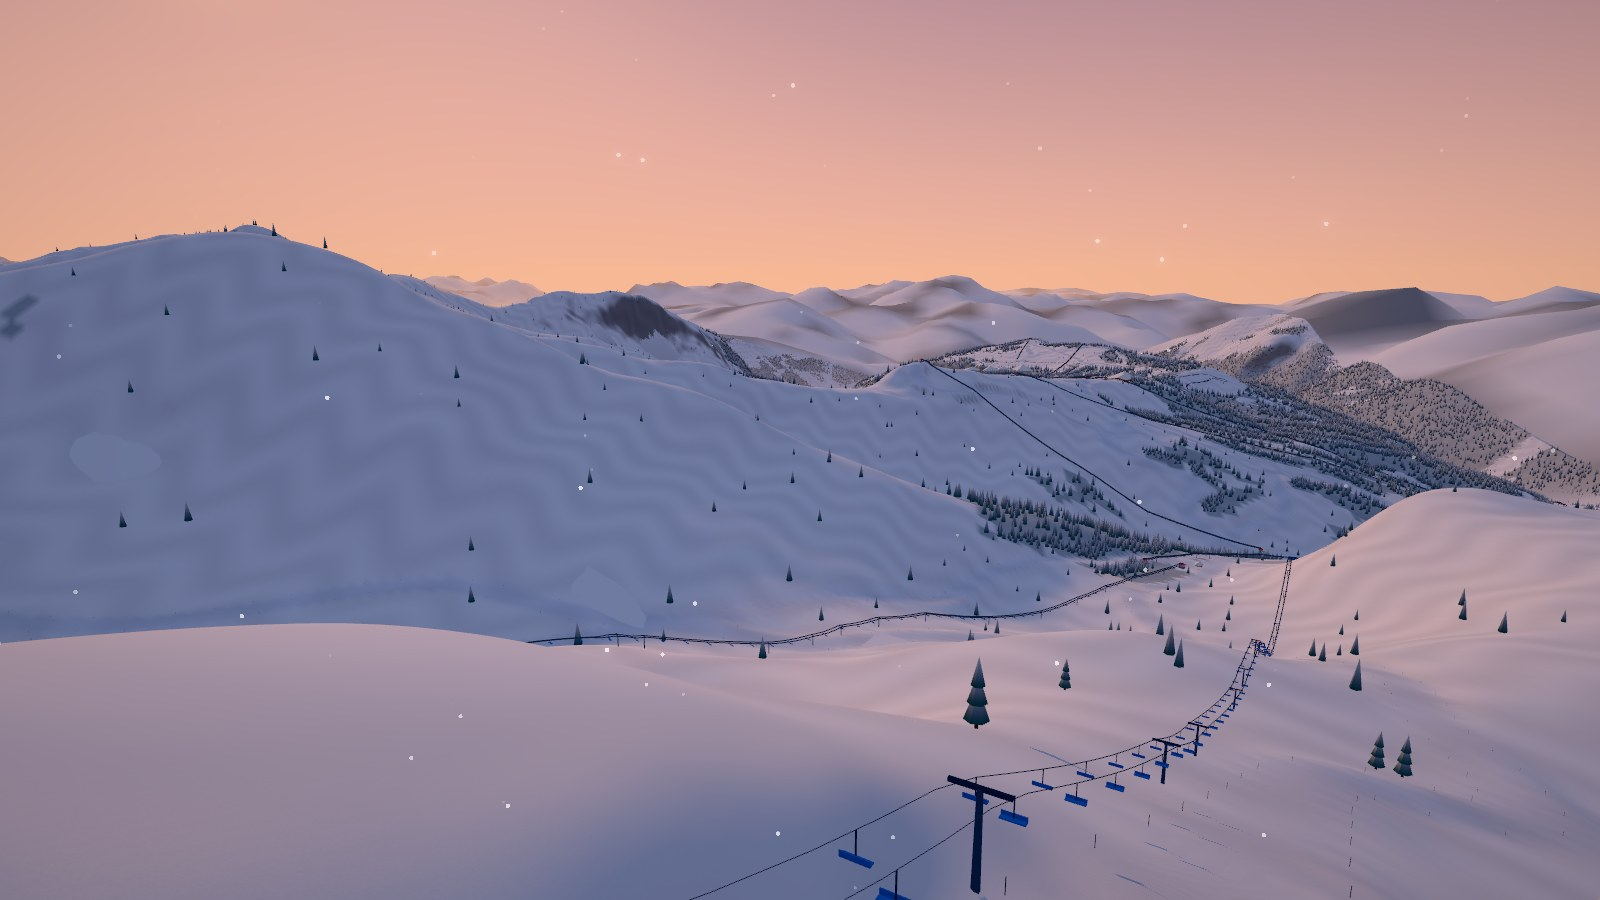
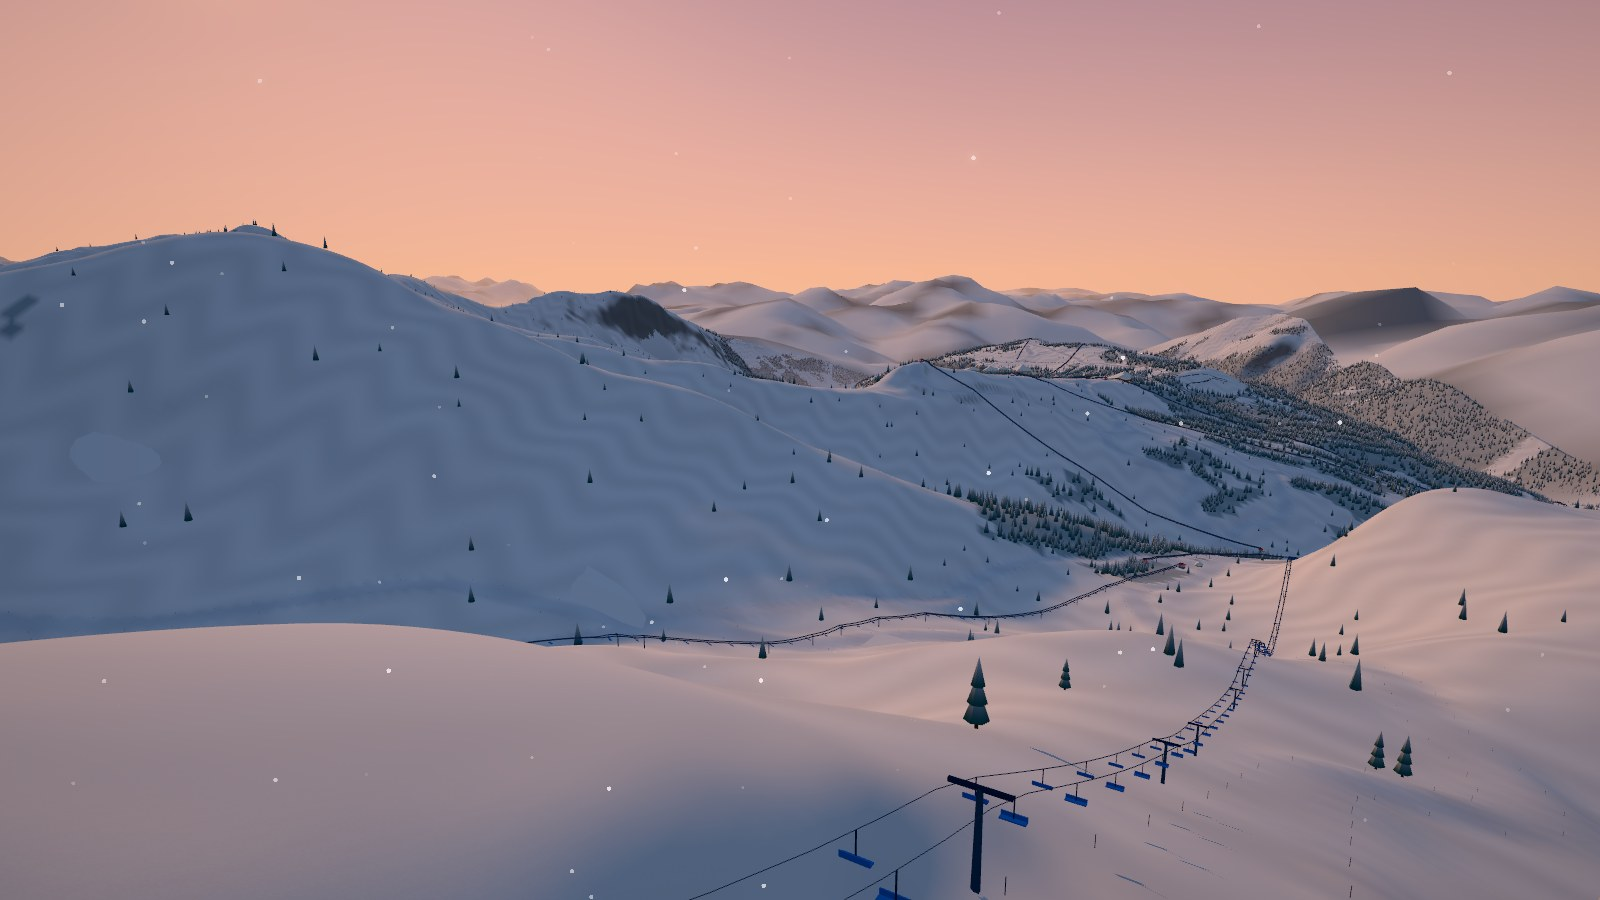
fix(lumière): neige moins lavande, plus de contraste au soleil bas, velours lu de près seulement
Suite de la critique indépendante (6,5/10) :
- hémisphère : ciel bleu-cyan et sol gris chaud au lieu de lavande et
  violet (ombre mesurée [79, 95, 120] sur la piste) ;
- free ride : lumière du ciel x0,8, soleil x1,15 ;
- passes du velours effacées entre 25 et 90 m, amplitude 2 %.
Captures apres-lumiere refaites. 127 tests verts, aucun triangle ajouté.

Changed region(s): [[0.75, 0.4044, 0.7812, 0.4356]]

diff --git a/src/render/sky.ts b/src/render/sky.ts
@@ -11,11 +11,11 @@ interface Mood {
 
 /** Time-of-day keyframes (morning → noon → golden hour → dusk). Fog = horizon colour. */
 const MOODS: Mood[] = [
-  { t: 0.15, top: 0x58709f, horizon: 0xe9b8a6, sun: 0xffc59a, sunI: 1.1, sky: 0xbfc9ec, ground: 0x7c7f9f, hemiI: 1.05, elev: 5 },
-  { t: 0.3, top: 0x5f93d3, horizon: 0xf3d8c6, sun: 0xffdcb4, sunI: 1.55, sky: 0xd3e2ff, ground: 0x8b91b0, hemiI: 1.25, elev: 16 },
-  { t: 0.52, top: 0x3d7ed0, horizon: 0xcfe4f6, sun: 0xfff3e2, sunI: 1.85, sky: 0xe4f0ff, ground: 0x8e9cb5, hemiI: 1.35, elev: 52 },
-  { t: 0.8, top: 0x45559d, horizon: 0xffb27f, sun: 0xffad6b, sunI: 1.6, sky: 0xbcc4ef, ground: 0x80708e, hemiI: 1.1, elev: 9 },
-  { t: 0.95, top: 0x2e3566, horizon: 0xd98c88, sun: 0xff8f6b, sunI: 0.9, sky: 0x8f97c9, ground: 0x5d5672, hemiI: 0.9, elev: 2 },
+  { t: 0.15, top: 0x58709f, horizon: 0xe9b8a6, sun: 0xffc59a, sunI: 1.1, sky: 0xbcd0ee, ground: 0x8a8c98, hemiI: 1.05, elev: 5 },
+  { t: 0.3, top: 0x5f93d3, horizon: 0xf3d8c6, sun: 0xffdcb4, sunI: 1.55, sky: 0xcfe2fb, ground: 0x9298a6, hemiI: 1.25, elev: 16 },
+  { t: 0.52, top: 0x3d7ed0, horizon: 0xcfe4f6, sun: 0xfff3e2, sunI: 1.85, sky: 0xdcebfb, ground: 0x9aa2ae, hemiI: 1.35, elev: 52 },
+  { t: 0.8, top: 0x45559d, horizon: 0xffb27f, sun: 0xffad6b, sunI: 1.6, sky: 0xb2c9e8, ground: 0x8e8784, hemiI: 1.1, elev: 9 },
+  { t: 0.95, top: 0x2e3566, horizon: 0xd98c88, sun: 0xff8f6b, sunI: 0.9, sky: 0x8ea3c8, ground: 0x666270, hemiI: 0.9, elev: 2 },
 ];
 
 const ca = new Color();
@@ -116,6 +116,9 @@ export class Sky {
     // sun from the front-left, so slopes facing the skier are lit and shadows read
     this.sunDir.set(-0.55 * Math.cos(elev), Math.sin(elev), 0.8 * Math.cos(elev)).normalize();
     if (this.realSun) {
+      // a real low winter sun: less sky light, more sun, so the shade falls to about half of the sunlit snow
+      this.hemi.intensity *= 0.8;
+      this.sun.intensity *= 1.15;
       // +x east, +z south. Solar time = clock − 50 min (6.5° E in CET, equation of time −14 min); declination −12.6°
       const r = Math.PI / 180, lat = 46.4 * r, dec = -12.6 * r, H = (7 + 12 * this.time - 0.83 - 12) * 15 * r;
       const e = Math.max(2 * r, Math.asin(Math.sin(lat) * Math.sin(dec) + Math.cos(lat) * Math.cos(dec) * Math.cos(H))); // never under the horizon

diff --git a/src/render/snow.ts b/src/render/snow.ts
@@ -3,7 +3,7 @@ import { DataTexture, RGBAFormat, Vector4, type Texture } from 'three';
 /**
  * The snow's own surface, for the snow materials only (massif, detail patch, land around, arcade terrain), no triangle:
  * - the groomer's corduroy: ridges every 30 cm along the piste and 4.5 m passes, on groomed snow (a texture of the
- *   10 m grid with the piste's direction, see MountainView), faded before it aliases;
+ *   10 m grid with the piste's direction, see MountainView), faded before it aliases (ridges past 70 m, passes past 90 m);
  * - a grain of crystals (12 cm), near the camera only;
  * - the shade lit by the blue sky: the light that does not come from the sun is a touch bluer.
  * Needs the world position varying of the relief patch (addHeightFog, called first by the same hook).
@@ -39,7 +39,7 @@ export function addSnowSurface(sh: { uniforms: Record<string, unknown>; fragment
           float aa = clamp(1.0 - fwidth(u) / 0.15, 0.0, 1.0);
           float pass = step(0.5, fract(u / 4.5));
           float k = groomed * smoothstep(0.0, 0.05, tilt); // not on the flat (no fall to groom along)
-          g *= 1.0 - k * (ridge * 0.07 * aa * near + pass * 0.03 * (1.0 - smoothstep(60.0, 240.0, dist)));
+          g *= 1.0 - k * (ridge * 0.07 * aa * near + pass * 0.02 * (1.0 - smoothstep(25.0, 90.0, dist))); // a groomer's work reads only up close
         }
       }
       reflectedLight.directDiffuse *= g;

diff --git a/docs/SESSION_STATE.md b/docs/SESSION_STATE.md
@@ -10,7 +10,19 @@
 - [x] 4. Ombres : carte d'ombre du soleil en medium (1024 px, ±55 m) et high (2048 px, ±110 m), recentrée devant la caméra et calée sur les texels ; ombres du relief calculées sur le CPU (grille de 20 m) pour tous les paliers. Bug de la sous-étape A corrigé : les sapins « profonds » étaient coupés au-delà de 200 m au palier bas. Palier bas après correctif : Rousses 276 k / 50, Avoriaz 278 k / 31, village 260 k / 47.
 - [x] 5. Neige : velours de dameuse dans le sens de la piste (texture damé + direction sur la grille de 10 m, 14 ms aux Rousses et 56 ms à Avoriaz au chargement en desktop), grain de 12 cm près de la caméra, part de ciel bleutée dans l'ombre. Aucun triangle ajouté.
 - [x] 6. Remesure (PERF.md, « Couche lumière ») : palier bas Rousses 271 k / 49, Avoriaz 278 k / 31, village 255 k / 45. Budget de 250 k non tenu, proposition dans DECISIONS.md point 91. e2e : 18 réussis, aucun échec.
-- [ ] 7. Critique indépendante
+- [x] 7. Critique indépendante : 6,5/10. Défauts 1 à 3 corrigés (lavande, contraste, velours au loin), 4 et 5 restent (DECISIONS.md point 92).
+
+### Rapport final de la session 2
+
+- Fait : les 7 étapes. Draw calls regroupés ; paliers Auto/Low/Medium/High avec repli ; lumière de base (soleil réel, 15 h 30, brume de hauteur, tone mapping Neutral, étalonnage) ; ombres (carte d'ombre en medium/high, relief sur le CPU pour tous) ; neige (velours, grain, ombres bleutées) ; remesure ; critique et 3 corrections.
+- Palier bas, Pixel 7 émulé (CPU ×4), triangles / draw calls, avant → après : Rousses 275 k / 78 → 271 k / 49 ; Avoriaz 408 k / 98 → 278 k / 31 ; village 245 k / 70 → 255 k / 45. FPS 60 partout, p99 59,5.
+- Les chiffres « avant » oubliaient les forêts lointaines (bug de la sous-étape A, corrigé). Le budget de 250 k n'est pas tenu : proposition de budget séparé dans DECISIONS.md, point 91.
+- Medium : 543 k / 89, 1 476 k / 42, 402 k / 57. High : 889 k / 102, 2 647 k / 55 (Avoriaz : p99 à 30 FPS même sur le M1), 671 k / 70. Le budget de 60 draw calls n'est tenu qu'au palier bas.
+- Reste moyen : sapins trop sombres, ciel et brume sans profondeur, High trop lourd à Avoriaz, la foule pèse beaucoup en Medium/High.
+- Pas vérifié : la chaleur de la neige au soleil, le velours à l'œil, l'effet à l'image des ombres projetées par les objets derrière la caméra (seulement le comptage), le temps de démarrage sur un vrai téléphone (relief + velours : environ 0,2 à 0,35 s estimés avec le CPU ×4 à Avoriaz), le repli automatique de palier, qui n'a jamais été déclenché.
+- L'émulation (CPU bridé, GPU du M1 non bridé) ne remplace pas un test sur un vrai téléphone.
+- Usage : non mesurable depuis la session (aucun outil n'y donne accès). Rien n'a été poussé.
+
 
 ## Session 1 : sous-étape A
 

diff --git a/docs/DECISIONS.md b/docs/DECISIONS.md
@@ -191,4 +191,7 @@ Les 19 défauts signalés ont été vérifiés un par un puis corrigés. Les pri
     - garder 250 k partout et payer en image au palier bas : brume à 3,5 km, 8 corps dans la foule au lieu de 12, forêt lointaine éclaircie au-delà de 1,5 km, ou un maillage par restaurant (il faudrait alors assouplir `restos-view.test.ts`) ;
     - fixer un budget en deux parties : environ 280 k pour le jeu normal au palier bas (piste, village) et environ 450 k pour le panorama du sommet (Avoriaz, vue jusqu'à Morzine). Le budget « panorama » tolère 450 k parce que ce point de vue est rare et immobile.
     Rien n'est changé en attendant la décision.
+92. **Critique indépendante** (un sous-agent, 4 images réduites : avant/après pour la piste des Rousses et le sommet d'Avoriaz). Notes de l'après : piste 6/10, Avoriaz 7/10, globale 6,5/10. Défauts relevés, du plus grave au moins grave : 1) dominante lavande sur toute la neige ; 2) velours répétitif et visible trop loin ; 3) lumière plate, l'ombre presque aussi claire que le soleil ; 4) brume et ciel sans profondeur, zénith qui ne bleuit pas ; 5) sapins bleu ardoise presque noirs.
+    - Corrigés : 1) couleurs du ciel et du sol de l'hémisphère tirées vers le bleu-cyan et le gris chaud ; mesuré sur la piste, l'ombre vaut [79, 95, 120] en RVB, bleu-cyan et non plus mauve. 3) En free ride, lumière du ciel ×0,8 et soleil ×1,15, soit une ombre à environ la moitié de la neige au soleil (calcul sur les intensités). 2) Passes du velours effacées entre 25 et 90 m au lieu de 60 à 240 m, amplitude 3 → 2 %.
+    - Non corrigés, faute de marge : 4) profondeur du ciel et de la brume ; 5) couleur et liseré des sapins. La chaleur de la neige au soleil n'a pas été vérifiée : la zone mesurée était surtout à l'ombre, et aucune capture ne restait pour regarder.
 
